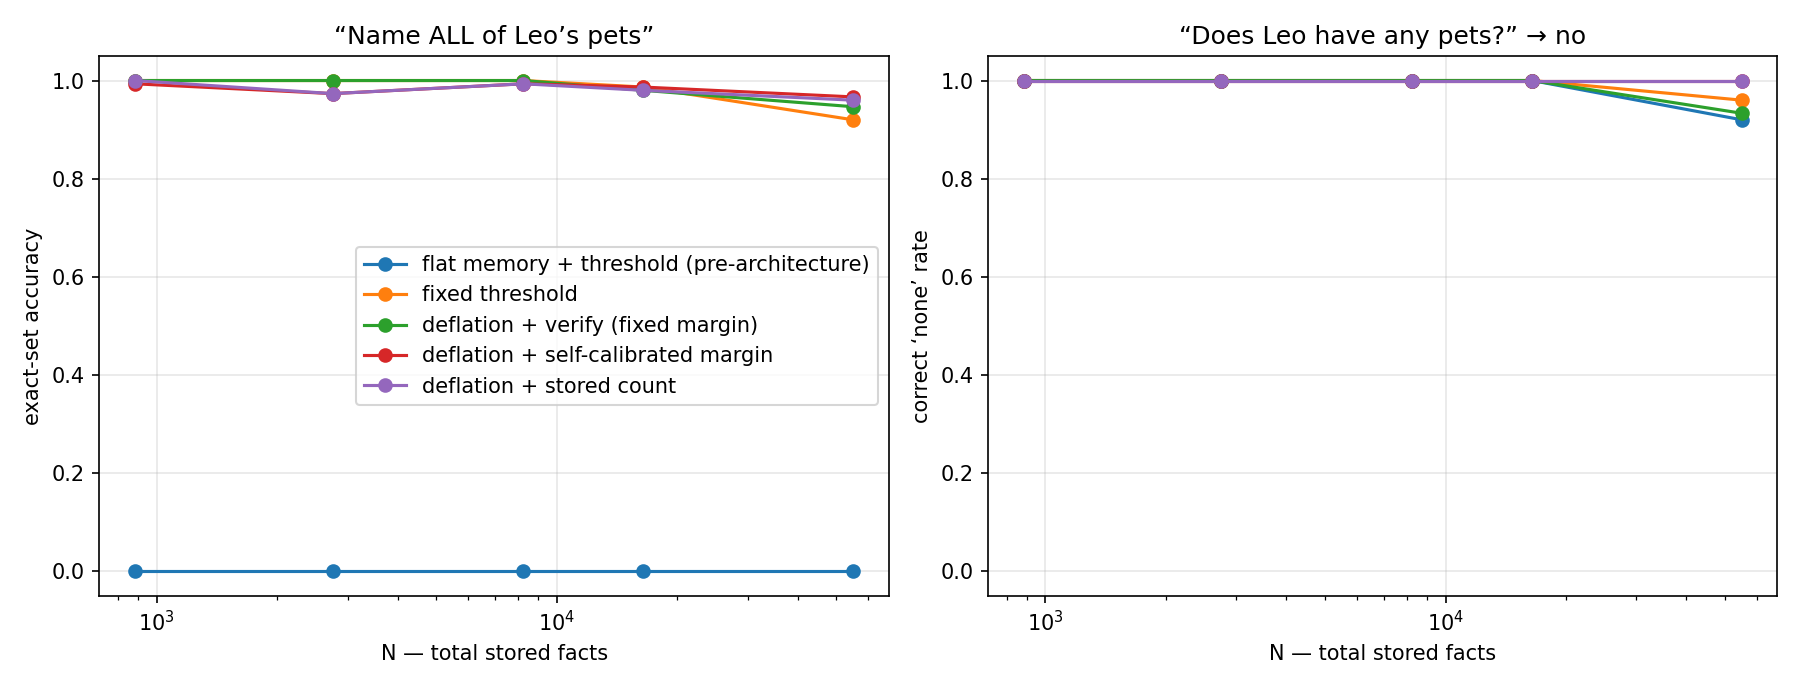
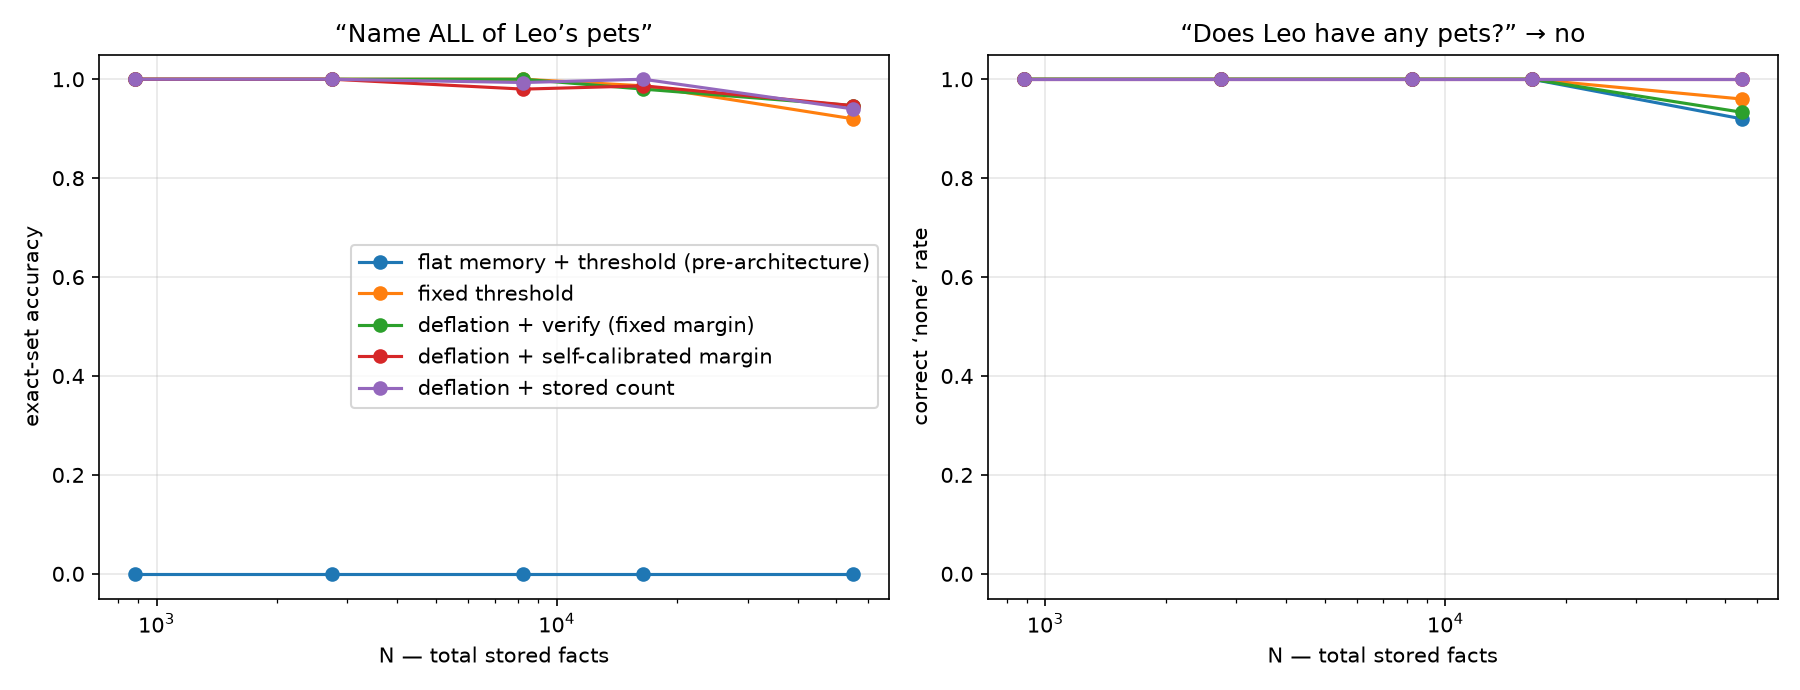
Implement per-leaf margin calibration, orthogonal ID generator, and adaptive LSH probing; update experiments

diff --git a/experiment4.py b/experiment4.py
@@ -79,7 +79,12 @@ def deflate_readout(w, person_id, margin):
         cand = int(cleanup(noisy, w["pets_f"])[0])
         if cand in found:
             break
-        if verify_score(mem, leaf, working, key, w["pets"][cand]) < margin:
+        # support per-leaf margin dict or scalar
+        if isinstance(margin, dict):
+            m = margin.get(leaf, margin.get("_global", 0.1))
+        else:
+            m = margin
+        if verify_score(mem, leaf, working, key, w["pets"][cand]) < m:
             break                       # stopping rule: next candidate not real
         found.add(cand)
         working -= key.astype(np.int64) * w["pets"][cand].astype(np.int64)
@@ -93,7 +98,11 @@ def read_count(w, person_id, margin):
     working = mem.leaf_M[leaf]
     noisy = working * key.astype(np.int64)
     cand = int(cleanup(noisy, w["counts_f"])[0])
-    if verify_score(mem, leaf, working, key, w["counts"][cand]) < margin:
+    if isinstance(margin, dict):
+        m = margin.get(leaf, margin.get("_global", 0.1))
+    else:
+        m = margin
+    if verify_score(mem, leaf, working, key, w["counts"][cand]) < m:
         return None
     return cand
 
@@ -110,25 +119,42 @@ def calibrate_margin(w, n_quiz=300):
     top impostor scores. Bar sits between the impostor tail and the
     member floor."""
     mem = w["mem"]
-    member_scores, neg_scores = [], []
+    # Per-leaf calibration: collect member / impostor top scores per leaf
+    leaf_member = {}
+    leaf_neg = {}
     persons_all = np.arange(len(w["sizes"]))
-    for p in rng.choice(persons_all, size=min(n_quiz, len(persons_all)),
-                        replace=False):
+    sampled = rng.choice(persons_all, size=min(n_quiz, len(persons_all)),
+                         replace=False)
+    for p in sampled:
         key = (w["R_pet"] * w["persons"][int(p)]).astype(np.int8)
         leaf = mem._hash(key)
         working = mem.leaf_M[leaf].copy()
+        # record true-member scores on the intact working signal
         for pet in w["owns"][int(p)]:
-            member_scores.append(
+            leaf_member.setdefault(leaf, []).append(
                 verify_score(mem, leaf, working, key, w["pets"][pet]))
         # remove ground truth, then see what the selector digs up
         for pet in w["owns"][int(p)]:
             working -= key.astype(np.int64) * w["pets"][pet].astype(np.int64)
         noisy = working * key.astype(np.int64)
         cand = int(cleanup(noisy, w["pets_f"])[0])
-        neg_scores.append(verify_score(mem, leaf, working, key, w["pets"][cand]))
-    lo = float(np.quantile(neg_scores, 0.99))
-    hi = float(np.quantile(member_scores, 0.10)) if member_scores else lo * 2
-    return (lo + hi) / 2
+        leaf_neg.setdefault(leaf, []).append(
+            verify_score(mem, leaf, working, key, w["pets"][cand]))
+
+    per_leaf_margin = {}
+    margins = []
+    for leaf, neg_scores in leaf_neg.items():
+        member_scores = leaf_member.get(leaf, [])
+        lo = float(np.quantile(neg_scores, 0.99)) if neg_scores else 0.0
+        hi = float(np.quantile(member_scores, 0.10)) if member_scores else lo * 2
+        m = (lo + hi) / 2
+        per_leaf_margin[leaf] = m
+        margins.append(m)
+
+    # global fallback margin for unseen leaves
+    global_margin = float(np.median(margins)) if margins else 0.1
+    per_leaf_margin["_global"] = global_margin
+    return per_leaf_margin
 
 
 def flat_threshold_readout(w, person_id, theta):
@@ -210,7 +236,8 @@ def main():
             res[m]["exact"].append(exact)
             res[m]["empty"].append(empty)
             res[m]["N"].append(N)
-        print(f"N={N:6d} (cal margin {cal:.3f})  " + "  ".join(
+        cal_val = cal.get("_global", cal) if isinstance(cal, dict) else cal
+        print(f"N={N:6d} (cal margin {cal_val:.3f})  " + "  ".join(
             f"{m}: set={res[m]['exact'][-1]:.2f}/none={res[m]['empty'][-1]:.2f}"
             for m in methods))
 

diff --git a/experiment3.py b/experiment3.py
@@ -40,6 +40,26 @@ def rand_vecs(n):
     return rng.choice(np.array([-1, 1], dtype=np.int8), size=(n, D))
 
 
+def rand_orth_vecs(n):
+    """Generate n approximately orthogonal +/-1 vectors via Gram-Schmidt.
+    Returns int8 matrix shape (n, D)."""
+    # start from gaussian floats for stable orthogonalization
+    V = rng.normal(size=(n, D)).astype(np.float32)
+    for i in range(n):
+        v = V[i]
+        for j in range(i):
+            u = V[j]
+            proj = (v @ u) / (u @ u) if (u @ u) != 0 else 0.0
+            v = v - proj * u
+        norm = np.linalg.norm(v)
+        if norm == 0:
+            # fallback to fresh random vector
+            v = rng.normal(size=(D,)).astype(np.float32)
+            norm = np.linalg.norm(v)
+        V[i] = v / norm
+    return np.sign(V).astype(np.int8)
+
+
 def correlated_vecs(n, cluster_size=50, mutate=0.15):
     """Entities in clusters: each is its cluster prototype with `mutate`
     of the bits flipped -> within-cluster cosine ~ (1-2m)^2 ~ 0.49."""
@@ -100,7 +120,8 @@ def panel1():
         R1, R2 = rand_vecs(2)
         person_sem = correlated_vecs(n_pairs, mutate=m)
         animal_sem = correlated_vecs(n_pairs, mutate=m)
-        person_id, animal_id = rand_vecs(n_pairs), rand_vecs(n_pairs)
+        # use orthogonalized random IDs to keep IDs maximally different
+        person_id, animal_id = rand_orth_vecs(n_pairs), rand_orth_vecs(n_pairs)
         sounds = rand_vecs(n_sounds)
         animal_sound = rng.integers(0, n_sounds, size=n_pairs)
 
@@ -197,7 +218,7 @@ def panel3():
     D3 = 1024
     sizes = [10_000, 40_000, 160_000]
     n_queries = 100
-    T_TABLES, K_BITS, CONF_WINDOW, PROBES_PER_TABLE = 4, 9, 6, 16
+    T_TABLES, K_BITS, CONF_WINDOW, PROBES_TOTAL = 4, 9, 6, 32
     FALLBACK_SIM_MARGIN = 0.75   # accept if best_sim > margin * (1-2p)
     res = {}
 
@@ -230,27 +251,36 @@ def panel3():
             for v in q_vecs:
                 vf = v.astype(np.float32) / np.sqrt(D3)
                 best_sim = -np.inf
+                # distribute a global probe budget across tables adaptively
+                zt = None
+                probes_used = 0
                 for H, buckets in tables:
+                    if probes_used >= PROBES_TOTAL:
+                        break
                     z = H @ v.astype(np.float32)
                     base = (z > 0).astype(np.int64)
                     conf = np.argsort(np.abs(z))[:CONF_WINDOW]
+                    # per-table probe budget proportional to remaining budget
+                    remaining = PROBES_TOTAL - probes_used
+                    per_table_budget = max(1, remaining // (len(tables)))
                     probes = 0
                     done = False
                     for n_flip in range(0, 3):
                         for combo in combinations(conf, n_flip):
+                            if probes >= per_table_budget or probes_used >= PROBES_TOTAL:
+                                done = True
+                                break
                             b = base.copy()
                             for bit in combo:
                                 b[bit] ^= 1
                             ids = buckets.get(int(np.dot(b, weights)))
                             probes += 1
+                            probes_used += 1
                             if ids is not None and len(ids):
                                 sims = items_f[ids] @ vf
                                 s = float(np.max(sims))
                                 if s > best_sim:
                                     best_sim = s
-                            if probes >= PROBES_PER_TABLE:
-                                done = True
-                                break
                         if done:
                             break
                     if best_sim > accept_thresh: